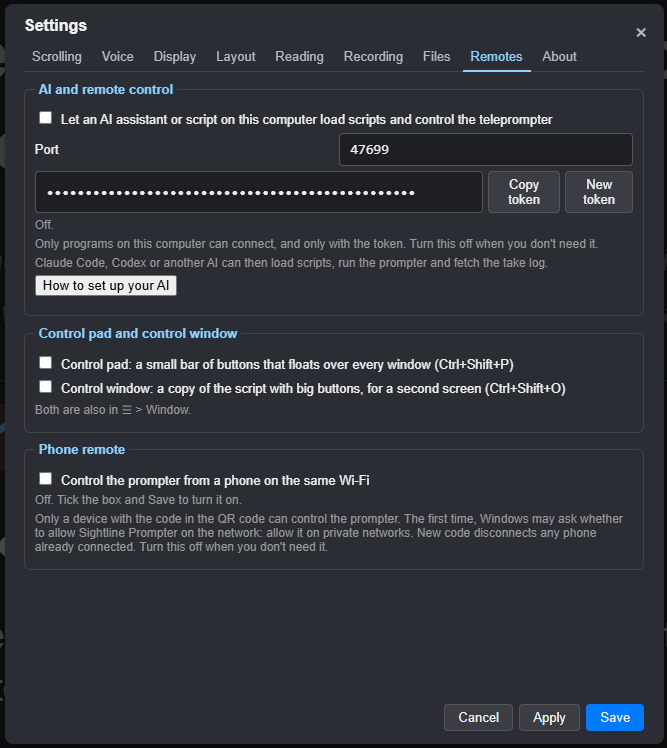
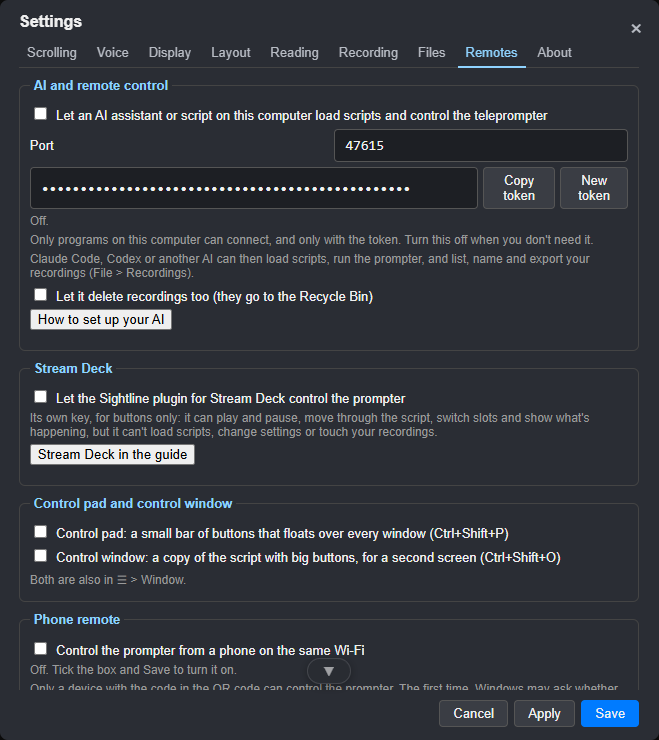
Stream Deck gets its own key: buttons only, separate from AI access
Settings > Remotes > Stream Deck: "Let the Sightline plugin for Stream Deck
control the prompter". It has its own key, written to stream-deck.json while
ticked, that only allows GET /status, GET /events, POST /command and POST
/slot; loading scripts, settings and recordings are refused (403). The local
server runs when either AI access or Stream Deck is on, and each key only
works while its own setting is. Restarting the server now drops open event
streams instead of waiting for them, which had left setting changes hanging.
Tested on the scratch app: the key's allowed and refused routes, the file
coming and going, and the plugin going grey and back. Guide 06 and 07,
change log and the Remotes picture updated.

Claude-Session: https://claude.ai/code/session_015GSLU7MQHSj5ADGAmpqsBu

Changed region(s): [[0.0, 0.0, 1.0, 1.0], [0.5159, 0.0622, 0.607, 0.0932]]

diff --git a/src/main.js b/src/main.js
@@ -144,6 +144,7 @@ const defaultSettings = {
 	showProgress: true,
 	controlsPinned: false, // keep the control bar visible instead of auto-hiding it
 	remoteControl: false, // AI / script control over http://127.0.0.1 (see remote.js)
+	streamDeck: false, // the Stream Deck plugin: buttons only, its own key (stream-deck.json)
 	remotePort: 47615,
 	remoteDeleteRecordings: false, // the local API may delete recordings (Settings > Remotes)
 	phoneRemote: false, // phone remote over the home network (Settings > Phone remote)
@@ -151,7 +152,7 @@ const defaultSettings = {
 };
 
 // Settings that a settings file or the remote API may not change.
-const PROTECTED_SETTINGS = [ "remoteControl", "remotePort", "remoteDeleteRecordings", "phoneRemote", "phonePort" ];
+const PROTECTED_SETTINGS = [ "remoteControl", "remotePort", "remoteDeleteRecordings", "streamDeck", "phoneRemote", "phonePort" ];
 
 // Take logs, one per script per day: the recordings library (recordings.js).
 const takeLogFolder = () => path.join( app.getPath( "userData" ), "take-logs" );
@@ -235,6 +236,7 @@ let hasUnsavedChanges = false;
 let isClosing = false;
 let refreshMenus = () => {};
 let remoteToken = null;
+let streamDeckToken = null; // Settings > Remotes > Stream Deck: buttons only
 let phoneKey = null;
 let phoneServer = null;
 let phoneError = null;
@@ -276,6 +278,7 @@ const saveState = async ( win ) => {
 		autoScrollSpeed: currentAutoScrollSpeed,
 		audioDeviceId: currentAudioDeviceId,
 		remoteToken,
+		streamDeckToken,
 		phoneKey,
 		settings,
 		normalBounds,
@@ -1018,6 +1021,7 @@ app.whenReady().then( async () => {
 		= state.autoScrollSpeed ?? defaultConfig.autoScrollSpeed;
 	currentAudioDeviceId = state.audioDeviceId || null;
 	remoteToken = state.remoteToken || newToken();
+	streamDeckToken = state.streamDeckToken || newToken();
 	phoneKey = state.phoneKey || newPhoneKey();
 	settings = { ...defaultSettings, ...state.settings };
 	normalBounds = state.normalBounds ?? null;
@@ -1295,9 +1299,20 @@ app.whenReady().then( async () => {
 		}
 	};
 
+	// The Stream Deck plugin's key: the state, the live stream, the commands
+	// and the slots, nothing else (no scripts, settings or recordings).
+	const STREAM_DECK_FILE = path.join( app.getPath( "userData" ), "stream-deck.json" );
+	const BUTTON_ROUTES = new Set( [ "GET /status", "POST /command", "POST /slot" ] );
+	// Close the server now: open event streams (the Stream Deck) would otherwise keep it waiting.
+	const closeServer = server => new Promise( ( r ) => {
+		server.close( r );
+		server.closeAllConnections();
+	} );
+
 	function remoteInfo() {
 		return {
 			enabled: !!settings.remoteControl,
+			streamDeck: !!settings.streamDeck,
 			running: !!remoteServer,
 			url: `http://127.0.0.1:${ settings.remotePort }`,
 			token: remoteToken,
@@ -1307,17 +1322,22 @@ app.whenReady().then( async () => {
 	}
 
 	async function syncRemoteServer() {
-		const wanted = settings.remoteControl ? settings.remotePort : null;
-		if ( remoteServer && remoteServer.teleprompterPort === wanted ) return;
+		const on = settings.remoteControl || settings.streamDeck;
+		const wanted = on ? settings.remotePort : null;
+		// Restart when the port or which keys work changes.
+		const keys = `${ wanted }|${ !!settings.remoteControl }|${ !!settings.streamDeck }`;
+		if ( remoteServer && remoteServer.teleprompterKeys === keys ) return;
 		if ( remoteServer ) {
-			await new Promise( r => remoteServer.close( r ) );
+			await closeServer( remoteServer );
 			remoteServer = null;
 		}
 		remoteError = null;
 		if ( wanted ) {
 			remoteServer = startRemoteServer( {
 				port: wanted,
-				token: remoteToken,
+				token: settings.remoteControl ? remoteToken : null,
+				buttonToken: settings.streamDeck ? streamDeckToken : null,
+				buttonRoutes: BUTTON_ROUTES,
 				routes: remoteRoutes,
 				events: remoteEvents,
 				onError: ( err ) => {
@@ -1326,12 +1346,14 @@ app.whenReady().then( async () => {
 					win.webContents.send( "remoteInfo", remoteInfo() );
 				}
 			} );
-			remoteServer.teleprompterPort = wanted;
-			// Lets a local assistant find the address and token.
-			await fs.writeFile( REMOTE_FILE, JSON.stringify( { url: remoteInfo().url, token: remoteToken }, null, 2 ) );
-		} else {
-			await fs.rm( REMOTE_FILE, { force: true } );
+			remoteServer.teleprompterKeys = keys;
 		}
+		// Lets a local assistant, or the Stream Deck plugin, find the address and its key.
+		const url = remoteInfo().url;
+		if ( wanted && settings.remoteControl ) await fs.writeFile( REMOTE_FILE, JSON.stringify( { url, token: remoteToken }, null, 2 ) );
+		else await fs.rm( REMOTE_FILE, { force: true } );
+		if ( wanted && settings.streamDeck ) await fs.writeFile( STREAM_DECK_FILE, JSON.stringify( { url, token: streamDeckToken }, null, 2 ) );
+		else await fs.rm( STREAM_DECK_FILE, { force: true } );
 		win.webContents.send( "remoteInfo", remoteInfo() );
 	}
 
@@ -1478,7 +1500,7 @@ app.whenReady().then( async () => {
 		remoteToken = newToken();
 		await saveState( win );
 		if ( remoteServer ) {
-			await new Promise( r => remoteServer.close( r ) );
+			await closeServer( remoteServer );
 			remoteServer = null;
 		}
 		await syncRemoteServer();

diff --git a/src/remote.js b/src/remote.js
@@ -38,6 +38,7 @@ function readBody( req ) {
 }
 
 function tokenMatches( given, token ) {
+	if ( !token ) return false;
 	const a = Buffer.from( String( given ?? "" ) );
 	const b = Buffer.from( token );
 	return a.length === b.length && crypto.timingSafeEqual( a, b );
@@ -47,7 +48,10 @@ function tokenMatches( given, token ) {
 // events: { subscribe( send ) -> unsubscribe }: GET /events streams each
 // change as a server-sent event (`data: {…}`), for buttons that show state
 // such as the Stream Deck plugin.
-export function startRemoteServer( { port, token, routes, events, onError } ) {
+// token: the full key (AI assistants and scripts), or null when that's off.
+// buttonToken: a second key that may only use buttonRoutes and /events (the
+// Stream Deck plugin), or null when that's off.
+export function startRemoteServer( { port, token, buttonToken = null, buttonRoutes = new Set(), routes, events, onError } ) {
 	const server = http.createServer( async ( req, res ) => {
 		const reply = ( status, data ) => {
 			res.writeHead( status, { "Content-Type": "application/json" } );
@@ -66,10 +70,15 @@ export function startRemoteServer( { port, token, routes, events, onError } ) {
 				/^Bearer\s+/i,
 				""
 			);
-			if ( !tokenMatches( auth, token ) ) {
+			const full = tokenMatches( auth, token );
+			const buttons = !full && tokenMatches( auth, buttonToken );
+			if ( !full && !buttons ) {
 				return reply( 401, { error: "Missing or wrong token" } );
 			}
 			const url = new URL( req.url, "http://127.0.0.1" );
+			if ( buttons && url.pathname !== "/events" && !buttonRoutes.has( `${ req.method } ${ url.pathname }` ) ) {
+				return reply( 403, { error: "The Stream Deck key can only press buttons" } );
+			}
 			if ( events && req.method === "GET" && url.pathname === "/events" ) {
 				res.writeHead( 200, {
 					"Content-Type": "text/event-stream",

diff --git a/src/client/teleprompter.js b/src/client/teleprompter.js
@@ -2035,6 +2035,7 @@ async function openSettings() {
 	field( "set-eye-line-height" ).value = settings.eyeLineHeight;
 	field( "set-eye-line-reading" ).value = settings.eyeLineReadingLine;
 	field( "set-remote" ).checked = !!settings.remoteControl;
+	field( "set-stream-deck" ).checked = !!settings.streamDeck;
 	field( "set-remote-delete" ).checked = !!settings.remoteDeleteRecordings;
 	field( "set-remote-port" ).value = settings.remotePort ?? 47615;
 	window.electron.getRemoteInfo();
@@ -2398,6 +2399,7 @@ function saveSettingsPage( close = true ) {
 			settings.eyeLineReadingLine
 		),
 		remoteControl: field( "set-remote" ).checked,
+		streamDeck: field( "set-stream-deck" ).checked,
 		remoteDeleteRecordings: field( "set-remote-delete" ).checked,
 		phoneRemote: field( "set-phone" ).checked,
 		remotePort: numberValue(
@@ -4363,7 +4365,7 @@ window.electron.onRemoteInfo( ( info ) => {
 	if ( !status ) return;
 	field( "set-remote-token" ).value = info.token ?? "";
 	if ( info.error ) status.textContent = `Not running: ${ info.error }`;
-	else if ( info.running )
+	else if ( info.running && info.enabled )
 		status.textContent = `On at ${ info.url } (details for assistants in ${ info.file })`;
 	else status.textContent = "Off.";
 } );

diff --git a/src/client/teleprompter.html b/src/client/teleprompter.html
@@ -996,7 +996,22 @@
           >
           <p class="settings-about-actions">
             <button type="button" id="set-remote-help">How to set up your AI</button>
-            <button type="button" id="set-remote-streamdeck" title="The Sightline plugin for Stream Deck uses this setting">Stream Deck</button>
+          </p>
+        </fieldset>
+
+        <fieldset data-tab="remotes">
+          <legend>Stream Deck</legend>
+          <label class="check"
+            ><input id="set-stream-deck" type="checkbox" /> Let the Sightline plugin for
+            Stream Deck control the prompter</label
+          >
+          <p class="field-hint">
+            Its own key, for buttons only: it can play and pause, move through the
+            script, switch slots and show what's happening, but it can't load
+            scripts, change settings or touch your recordings.
+          </p>
+          <p class="settings-about-actions">
+            <button type="button" id="set-remote-streamdeck">Stream Deck in the guide</button>
           </p>
         </fieldset>
 

diff --git a/readme.md b/readme.md
@@ -209,6 +209,7 @@ Planned features and their order are in [ROADMAP.md](ROADMAP.md).
 
 ### Next release
 
+- **Stream Deck setting** (Settings > Remotes > Stream Deck): the Stream Deck plugin gets its own key, separate from AI access, that can only press buttons: `GET /status`, `GET /events`, `POST /command` and `POST /slot`. Anything else (loading scripts, settings, recordings) is refused. Sightline writes it to `stream-deck.json` while the setting is on and deletes it when it's off. Turning remote settings on or off no longer waits for an open event stream to close
 - **Stream Deck plugin, signposted:** Settings > Remotes has a **Stream Deck** button, and the user guide (Remotes and second screens > Stream Deck), the About box and the feature list describe the coming Sightline Prompter plugin for Stream Deck: what its keys and dials do, the sample profiles, and how to set it up (roadmap 39)
 - **The local API for buttons:** `GET /events` streams the prompter's state (playing, on air, mirror, slot, section, time left, speed, text size, backing, the open panel) each time it changes, so a button can light up to match; and `POST /command` gains `on-air`, `mirror`, `mirror-h`, `mirror-v`, `bigger`, `smaller`, `layout`, `reading`, `recording`, `eye-line`, `click-through`, `scroll` and `backing`. It's what the coming Stream Deck plugin uses (roadmap 39)
 - **Your words** (Settings > Voice): voice scrolling now copes with the names and words it mishears. **Match words that sound alike** (on by default) counts a heard word that sounds like a script word, starts with the same letter and is about as long, as that word ("marsha" for "Moshe"). **Your list** adds the rest: your word, then what it hears instead ("site line" for "Sightline" works too). Each is a synonym, not a replacement, so it counts as your word where the script has it and as itself everywhere else. **Command words** does the same for the wake word and commands ("prompt her" for Prompter, "cheaper" for keeper), and sound-alikes count there too ("prompta"), still only at the end of what you say. **Suggest from what it heard** offers the words the heard logs show it mishearing more than once, and **Teach…** listens while you say the word and adds what it hears. They're kept with your settings (roadmap 20)

diff --git a/docs/guide/06-remotes-and-screens.md b/docs/guide/06-remotes-and-screens.md
@@ -35,14 +35,18 @@ latest news and the link are on the
 
 **Setting it up:**
 
-1. In Sightline, **Settings > Remotes**, tick **Let an AI assistant or script
-   on this computer load scripts and control the teleprompter**, and **Save**.
-   The plugin finds Sightline itself, so there's no code or token to type.
+1. In Sightline, **Settings > Remotes > Stream Deck**, tick **Let the
+   Sightline plugin for Stream Deck control the prompter**, and **Save**. The
+   plugin finds Sightline itself, so there's no code or token to type. It gets
+   its own key, for buttons only: it can play and pause, move through the
+   script, switch slots and show what's happening, but it can't load scripts,
+   change settings or touch your recordings. (That's separate from AI access,
+   which you can leave off.)
 2. Install the plugin. Stream Deck offers a ready-made **Sightline** profile
    for each Stream Deck you have: the Mini, Stream Deck, Neo, XL, +, + XL and
    the Pedal.
 3. Keep Sightline open while you record. If a key goes grey, it says why:
-   *Get Sightline* (Sightline isn't installed), *Turn on Remotes* (step 1), or
+   *Get Sightline* (Sightline isn't installed), *Turn on Stream Deck* (step 1), or
    *Not running* (Sightline is closed). Pressing a grey key opens the download
    page or these steps.
 

diff --git a/docs/guide/07-settings.md b/docs/guide/07-settings.md
@@ -67,8 +67,8 @@ Slide cues can be loaded here too.
 
 ![Settings > Remotes](images/settings-remotes.png)
 
-AI and remote control, the control pad and control window, and the phone
-remote. See
+AI and remote control, the Stream Deck plugin (its own setting, for buttons
+only), the control pad and control window, and the phone remote. See
 [Remotes and second screens](06-remotes-and-screens.md).
 
 ## About
